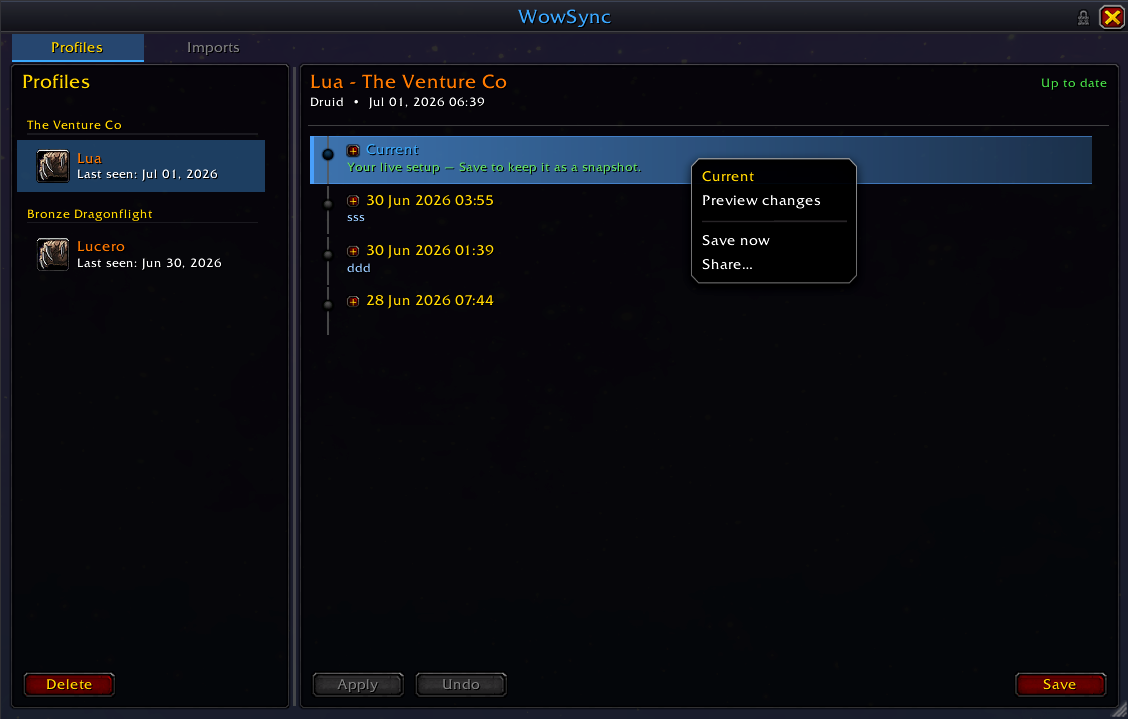
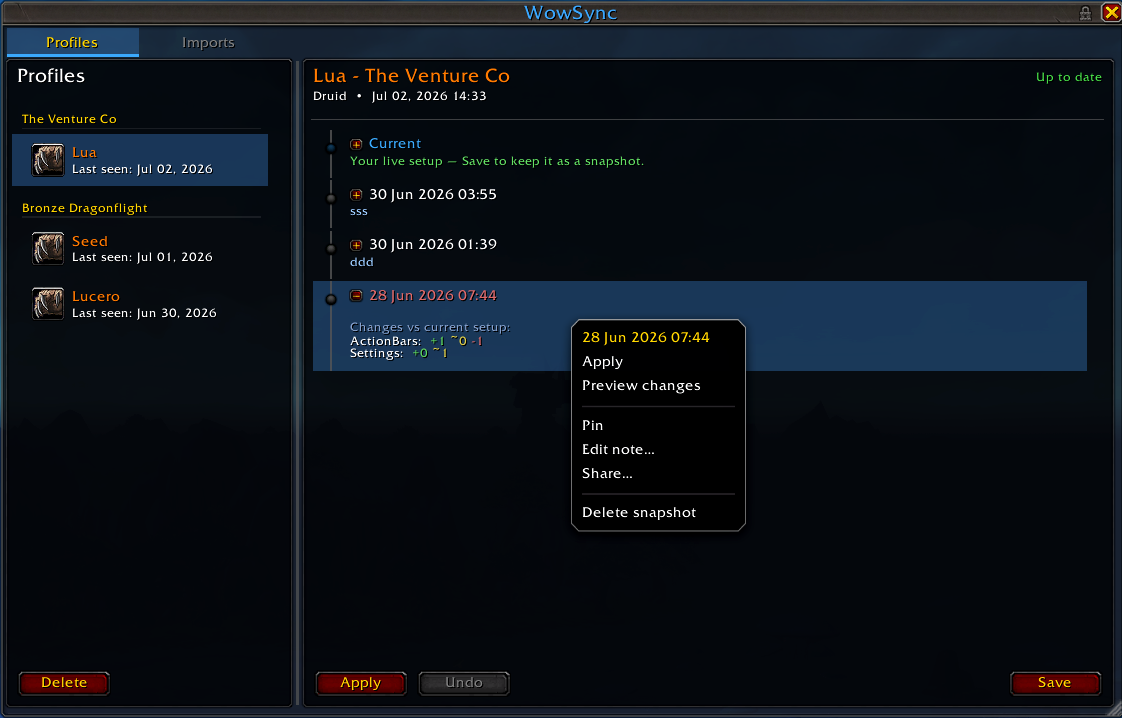
docs(readme): refresh UI screenshots
Bring the documentation imagery back in line with the current interface.
The sharing walkthrough now points at an up-to-date imports screenshot,
and the guide gains shots of the apply-preview, import, module-picker,
and share dialogs so readers see the flows they meet in the addon.

diff --git a/README.md b/README.md
@@ -52,7 +52,7 @@ Once it is open:
 
 ## Sharing: Export & Import
 
-![Imported snapshots](Screenshots/Imports.png)
+![Imported snapshots](Screenshots/ImportsTabFrame.png)
 
 Snapshots are not stuck on your account. **Export** turns Current or any snapshot into a portable text string you can send to anyone; **Import** turns a pasted string back into a snapshot ready to apply. Shared strings are anonymised — only the class, capture time, and note travel with the setup, never your character or realm name.
 
